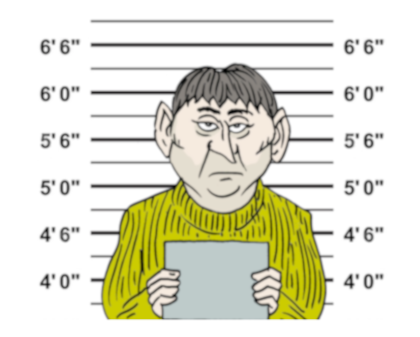
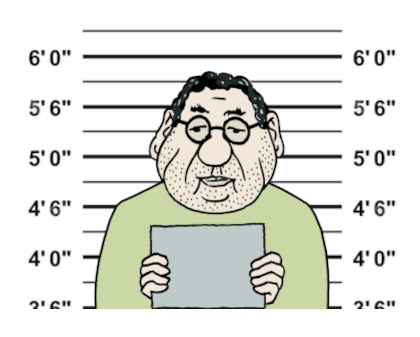
Create page criminals

diff --git a/src/screens/criminals/CriminalsCaughtScreen.tsx b/src/screens/criminals/CriminalsCaughtScreen.tsx
@@ -1,0 +1,84 @@
+import React, { useEffect, useState } from "react";
+import { View, Text, Image, Dimensions, StyleSheet, ImageBackground, SafeAreaView, ScrollView } from "react-native";
+import { useTailwind } from "tailwind-rn";
+import { useUser } from 'services/context/UserContext';
+import CustomHeaderEmpty from "components/header/CustomHeaderEmpty";
+import { getUserCriminals } from 'services/api/criminals';
+import { suspectsImagesMapping } from 'utils/suspectsImagesMapping';
+import { SwiperFlatList } from 'react-native-swiper-flatlist';
+
+export interface Criminal {
+    name: string;
+    description: string;
+    imageId: number;
+}
+
+const CriminalsCaughtScreen = () => {
+    const tw = useTailwind();
+    const { user } = useUser();
+    const [criminals, setCriminals] = useState<Criminal[]>([]);
+
+    useEffect(() => {
+        const loadCriminals = async () => {
+            try {
+                const userCriminals = await getUserCriminals(user.id);
+                setCriminals(userCriminals);
+            } catch (error) {
+                console.error(error);
+            }
+        };
+
+        loadCriminals();
+    }, [user.id]);
+
+    const { width } = Dimensions.get('window');
+    const styles = StyleSheet.create({
+        container: { flex: 1, backgroundColor: 'white' },
+        child: { width, justifyContent: 'center', alignItems: 'center', padding: 50 },
+        text: { fontSize: width * 0.05, textAlign: 'center' },
+        textBackground: {
+            backgroundColor: 'rgba(0, 0, 0, 0.5)',
+            paddingHorizontal: 10,
+            paddingVertical: 5,
+            borderRadius: 5,
+        },
+        pagination: { position: 'absolute', top: 100 }
+    });
+
+    return (
+        <View style={tw('flex-1')}>
+            <ImageBackground source={require('images/bg_bureau.png')} style={tw('flex-1')} resizeMode="cover">
+            </ImageBackground>
+            <SafeAreaView style={[tw('flex-1'), StyleSheet.absoluteFillObject]}>
+                <ScrollView >
+                <CustomHeaderEmpty title="Criminels arrêtés" backgroundColor="bg-whiteTransparent" />
+
+                    <SwiperFlatList
+                        index={0}
+                        showPagination
+                        paginationStyle={styles.pagination}
+                        data={criminals}
+                        style={tw('pt-24')}
+                        renderItem={({ item }) => (
+                            <View style={styles.child}>
+                                <Image
+                                    source={suspectsImagesMapping[item.imageId]}
+                                    style={tw('w-64 h-64 rounded-md')}
+                                    resizeMode="contain"
+                                />
+                                <View style={styles.textBackground}>
+                                    <Text style={[styles.text, tw('text-xl font-bold mt-2 text-white')]}>{item.name}</Text>
+                                </View>
+                                <View style={styles.textBackground}>
+                                    <Text style={[styles.text, tw('text-sm text-white')]}>{item.description}</Text>
+                                </View>
+                            </View>
+                        )}
+                    />
+                </ScrollView>
+            </SafeAreaView>
+        </View>
+    );
+};
+
+export default CriminalsCaughtScreen;

diff --git a/src/navigation/StackNavigator.tsx b/src/navigation/StackNavigator.tsx
@@ -36,6 +36,7 @@ import StatisticsScreen from "screens/profilScreens/StatisticsScreen";
 import TypeSentenceGameScreen from "screens/gamesScreens/TypeSentenceGameScreen";
 import CustomHeader from "components/header/CustomHeader";
 import AdminNavigator from "./AdminNavigator";
+import CriminalsCaughtScreen from "screens/criminals/CriminalsCaughtScreen";
 
 const Stack = createNativeStackNavigator();
 
@@ -71,6 +72,8 @@ const StackNavigator = ({ }) => {
             header: () => <CustomHeader title="Menu principal" navigation={navigation} />,
           })} />
         <Stack.Screen name="PlausibilityGameDetailed" component={PlausibilityGameDetailedScreen} />
+
+        <Stack.Screen name="CriminalsCaught" component={CriminalsCaughtScreen} />
 
         <Stack.Screen name="HypothesisGame" component={HypothesisGameScreen} />
 

diff --git a/src/utils/suspectsImagesMapping.tsx b/src/utils/suspectsImagesMapping.tsx
@@ -1,0 +1,10 @@
+export const suspectsImagesMapping = {
+        1: require('images/suspects/suspect_identification_1.png'),
+        2: require('images/suspects/suspect_identification_2.png'),
+        3: require('images/suspects/suspect_identification_3.png'),
+        4: require('images/suspects/suspect_identification_4.png'),
+        5: require('images/suspects/suspect_identification_5.png'),
+        6: require('images/suspects/suspect_identification_6.png'),
+        7: require('images/suspects/suspect_identification_7.png'),
+        8: require('images/suspects/suspect_identification_8.png'),
+};

diff --git a/src/services/api/criminals.tsx b/src/services/api/criminals.tsx
@@ -1,0 +1,23 @@
+import { Criminal } from "models/Criminals";
+
+import api from "./index";
+
+export const getCriminalById = async (id: number): Promise<Criminal> => {
+  try {
+    const response = await api.get(`/criminals/${id}`);
+    return response.data;
+  } catch (error) {
+    console.error(error);
+    throw error;
+  }
+};
+
+export const getUserCriminals = async (userId: number): Promise<Criminal[]> => {
+  try {
+    const response = await api.get(`/criminals/caughtByUserId/${userId}`);
+    return response.data;
+  } catch (error) {
+    console.error(error);
+    throw error;
+  }
+};

diff --git a/src/screens/MainBoardScreen.tsx b/src/screens/MainBoardScreen.tsx
@@ -208,7 +208,7 @@ const MainBoardScreen = ({ }) => {
                             </View>
                         </View>
 
-                        <TouchableOpacity onPress={() => navigation.navigate("MainBoard")}
+                        <TouchableOpacity onPress={() => navigation.navigate("CriminalsCaught")}
                             style={{
                                 position: 'absolute',
                                 top: '17%',

diff --git a/src/services/api/index.tsx b/src/services/api/index.tsx
@@ -2,8 +2,8 @@ import axios from "axios";
 import { API_URL } from "@env";
 
 const api = axios.create({
-  // baseURL: "https://codeine.atilf.fr/api"
-  baseURL: "http://localhost:3001"
+  baseURL: "https://codeine.atilf.fr/api"
+  // baseURL: "http://localhost:3001"
 });
 
 export default api;

diff --git a/src/navigation/Types.tsx b/src/navigation/Types.tsx
@@ -24,6 +24,7 @@ export type RootStackParamList = {
     TemporalEntity: undefined;
     PlausibilityGameDetailed: undefined;
     ConditionGame: undefined;
+    CriminalsCaught: undefined;
     NegationGame: undefined;
     Achievements: undefined;
     Stats: undefined;

diff --git a/src/models/Criminals.tsx b/src/models/Criminals.tsx
@@ -1,0 +1,6 @@
+export interface Criminal {
+  id: number,
+  name: string,
+  imageId: string,
+  description: string,
+}
